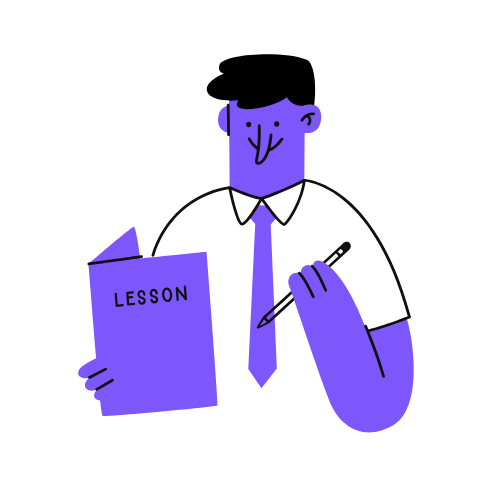
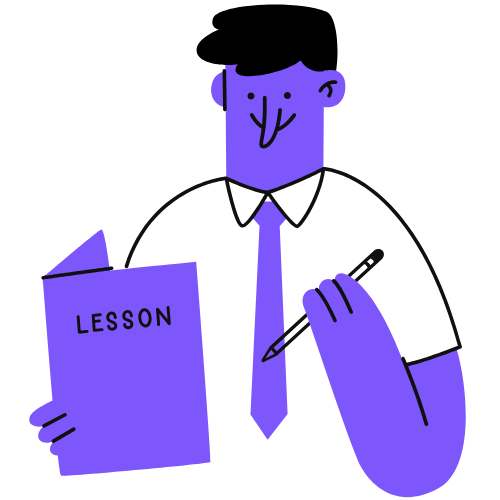
modify UI

diff --git a/src/app/dashboard/classroom/page.tsx b/src/app/dashboard/classroom/page.tsx
@@ -30,13 +30,13 @@ const page = () => {
   },[classroomContext,router])
   return (
     <BaseComponent opacity={1}>
-      <div className='bg-dpurple flex flex-col flex-grow w-full h-full relative mt-5 rounded-md'>
-        <img src={person.src} alt="person" className='absolute hidden lg:block xl:block left-0 bottom-0' style={{height:'70%'}} />
+      <div className='bg-dpurple flex flex-col flex-grow w-full h-full relative overflow-hidden mt-0 rounded-md'>
+        <img src={person.src} alt="person" className='absolute hidden lg:block xl:block left-0 top-20' style={{height:'50%'}} />
         <div className='p-3'>
           <BackButton/>
         </div>
-        <Typography variant='h4' className='text-white text-center text-lg'>{`${classroom?.courseCode} - ${classroom?.section}`}</Typography>
-        <Typography variant='h2' className='text-white text-center text-lg font-bold'>{classroom?.courseDescription}</Typography>
+        <Typography variant='h5' className='text-white text-center text-lg'>{`${classroom?.courseCode} - ${classroom?.section}`}</Typography>
+        <Typography variant='h4' className='text-white text-center text-lg font-bold'>{classroom?.courseDescription}</Typography>
         <a onClick={openViewEnrolleesModal} className='text-white text-center text-lg cursor-pointer' style={{textDecoration:'underline'}}>View enrolled students</a>
         <Modal open={viewEnrolleesModalOpen} onClose={closeViewEnrolleesModal}>
           <div style={{position:'absolute', top:'50%', left:'50%', transform:'translate(-50%, -50%)'}} className='p-5 w-2/3 md:w-1/2 lg:w-1/2 xl:w-1/2 bg-white rounded-md flex flex-col gap-10'>

diff --git a/src/Components/ClassroomCard.tsx b/src/Components/ClassroomCard.tsx
@@ -22,14 +22,14 @@ const ClassroomCard: React.FC<ClassroomCardProps> = ({ classroom }) => {
     return (
         <div 
             onClick={handleClick} 
-            className={`rounded-lg border-2 border-black hover:border-2 hover:border-lgreen cursor-pointer relative px-5 py-10`} 
-            style={{ width: '320px', boxShadow: '15px 15px 0px 0.1px rgba(0, 0, 0,1)', height: '250px' }}
+            className={`rounded-lg border-2 border-black hover:border-2 hover:border-lgreen cursor-pointer relative px-5 py-5`} 
+            style={{ width: '320px', boxShadow: '10px 10px 0px 0.1px rgba(0, 0, 0,1)', height: '200px' }}
         >
-            <Typography variant='h5' fontWeight='bold' style={{ zIndex: 1, position: 'relative' }}>
+            <Typography variant='h6' fontWeight='bold' style={{ zIndex: 1, position: 'relative' }}>
                 {classroom.courseDescription}
             </Typography>
             <Typography style={{color:'rgba(125,87,252,0.9)', fontWeight:'bold', zIndex:1, position:'relative'}}>{`${classroom.courseCode} - ${classroom.section}`}</Typography>
-            <img className='hidden md:block lg:block xl:block' src={randomPerson()} alt="person" style={{ position: 'absolute', bottom: 0, right: 0, height: '90%', zIndex: 0 }} />
+            <img className='hidden md:block lg:block xl:block' src={randomPerson()} alt="person" style={{ position: 'absolute', bottom: -25, right: 0, height: '80%', zIndex: 0, mixBlendMode: 'multiply'  }} />
         </div>
     );
 };

diff --git a/src/Components/BaseComponent.tsx b/src/Components/BaseComponent.tsx
@@ -14,11 +14,14 @@ interface BaseComponentProps {
 //this is done to reduce state reupdate for navbar everytime a child component rerenders.
 const BaseComponent: React.FC<PropsWithChildren<BaseComponentProps>> = ({ children, opacity }) => {
     return (
-        <div className={`h-screen bg-white bg-[linear-gradient(to_right,#f0f0f0_1px,transparent_1px),linear-gradient(to_bottom,#f0f0f0_1px,transparent_1px)] bg-[size:3rem_3rem] overflow-x-hidden px-10 md:px-28 lg:px-28 xl:px-28 relative z-0 pb-5 flex flex-col`}>
-            <Navbar/>
+        <div className="w-full bg-white bg-[linear-gradient(to_right,#f0f0f0_1px,transparent_1px),linear-gradient(to_bottom,#f0f0f0_1px,transparent_1px)] bg-[size:3rem_3rem] flex flex-col items-center min-h-screen">
+            <Navbar />
             <img src={greenTwirly.src} alt="green twirly" style={{position:'fixed', transform:'translate(-30%,-13%)', top:'0%',left:'0%', zIndex:0, opacity:opacity}}/>
             <img src={purpleTwirly.src} alt="purple twirly" style={{position:'fixed', transform:'translate(30%,60%)', bottom:'0%',right:'0%', zIndex:0, opacity:opacity}}/>
-            {children}
+             
+            <div className="w-full max-w-7xl flex flex-col items-center  ">
+                {children}
+            </div> 
         </div>
     );
 };

diff --git a/src/app/dashboard/page.tsx b/src/app/dashboard/page.tsx
@@ -10,12 +10,12 @@ export default function page() {
     const userContext = useUserContext();
     const user = userContext.user
     console.log(user?.enrolledClasses)
-    return (
-        <div className='h-screen overflow-auto'>
-            <BaseComponent>
+    return ( 
+        <BaseComponent opacity={1}>
+            <div className="flex flex-col items-center justify-start w-full px-6 mt-3 min-h-screen">
                 <GreetingBar name={user?.role == UserType.FACULTY?`Teacher ${user?.firstname}`:user?.firstname}/>
                 <ClassroomList classrooms={user?.enrolledClasses}/>
-            </BaseComponent>
-        </div>
+            </div> 
+        </BaseComponent> 
     )
 }

diff --git a/src/Components/Navbar.tsx b/src/Components/Navbar.tsx
@@ -33,7 +33,7 @@ const Navbar = () => {
     }
     
     return (
-        <div className='w-full flex p items-center justify-end md:justify-between lg:justify-between xl:justify-between py-5 relative' style={{height:'100px', zIndex:3}}>
+        <div className='w-full flex p px-12 items-center justify-end md:justify-between lg:justify-between xl:justify-between py-5 relative' style={{height:'100px', zIndex:3}}>
             <img onClick={()=>{router.replace('/dashboard')}} className='hidden md:block lg:block xl:block cursor-pointer' src={logo.src} alt="logo" style={{height:'100%'}} />
             {userContext.user?.role == UserType.FACULTY?
                 <>

diff --git a/src/Components/GreetingBar.tsx b/src/Components/GreetingBar.tsx
@@ -11,7 +11,7 @@ interface GreetingBarProps{
 
 const GreetingBar:React.FC<GreetingBarProps> = ({name}) => {
     return (
-        <div className='w-full bg-dpurple p-10 rounded-xl mt-10 relative'>
+        <div className='w-full bg-dpurple p-5 rounded-xl mt-0 relative'>
             <Typography variant='h3' color='white'>Hello, {capitalizeFirstLetter(name)}!</Typography>
             <Typography color='white'>It's nice to see you here...</Typography>
             <img className='hidden lg:block xl:block' src={conductor.src} alt="conductor" style={{position:'absolute', height:'180%', bottom:-30, right:0, zIndex:2}}/>

diff --git a/src/app/dashboard/classroom/group/page.tsx b/src/app/dashboard/classroom/group/page.tsx
@@ -1,0 +1,12 @@
+import React from 'react'
+import BaseComponent from '@/Components/BaseComponent'
+
+function page() {
+  return (
+    <BaseComponent opacity={1}>  
+      <h1>Welcome to the Page</h1>
+    </BaseComponent>
+  )
+}
+
+export default page
